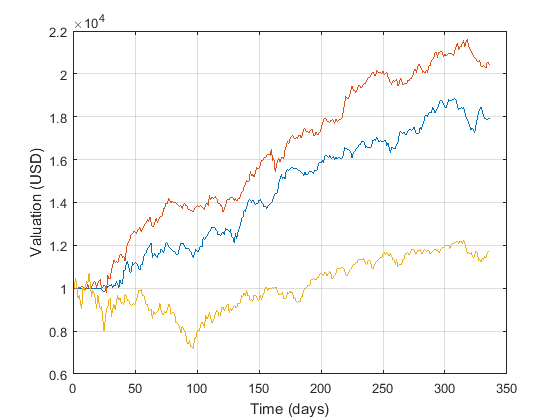
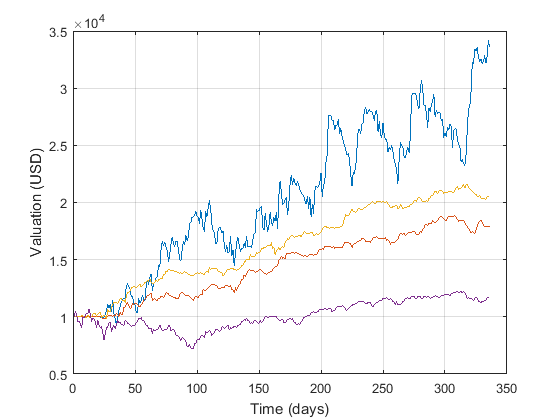
Update on complex and simple bb strats

diff --git a/strategy/strategy-running/Run_Bollinger_Complex_Strategy.m b/strategy/strategy-running/Run_Bollinger_Complex_Strategy.m
@@ -1,3 +1,4 @@
+clear;clc;
 addpath('../../helpers/');
 addpath('../../coint/deepsearch');
 addpath('../../coint/impl');
@@ -11,10 +12,6 @@ format longg;
 load('spreads_6575_7306.mat');
 load('spx_6575_7306.mat');
 
-%%%%%%%%%%%%%%
-% Run Simple before and load spreads_ids and spreads
-%%%%%%%%%%%%%%
-
 % N = length(spreads(1).px)+100;
 % for spr_id = spreads_ids
 %     spread      = spreads(spr_id);
@@ -23,17 +20,36 @@ load('spx_6575_7306.mat');
 %     save(fname, 'pmcmc');
 % end
 
+mat_a = zeros(length(spreads),5);
+for i = 1:length(spreads)
+    try
+        s = sprintf('pmcmc_%d.mat', i);
+        load(s);
+        mat_a(i,1) = mat(1);
+        mat_a(i,2) = mat(2);
+        mat_a(i,3) = mat(3);
+        mat_a(i,4) = mat(4);
+        mat_a(i,5) = mat(5);
+    catch
+        
+    end
+end
 
+sorted_mat_a = Rank_Results(mat_a, 3, 20);
+spreads_ids = sorted_mat_a(:,5)';
 
 mat_t 		 = zeros(length(spreads_ids) , 5 );
 fprintf('testing\n');
 c = 1;
 portfolio_cumsum = zeros(1);
+boll_conf    = struct('wsize', 20, 'wts', 1, 'nstd', 2);
+initial_bet  = 10000;
+
 for i = spreads_ids
     fprintf('i = %d\n', i);
 	Spread 		= spreads(i);
     T           = ceil((1/3)* length(Spread.px));
-    [ pmcmc ]   = Sto_Volatility_Estimator( Spread.px, 65, 6000 );
+    [ pmcmc ]   = Sto_Volatility_Estimator( Spread.px, 65, 3000 );
 	spread_vol = pmcmc.vol_two_factors_leverage;
     [pl, cum_pro, trds]= SimpleTradingStrategy( pp, Spread, T, length(Spread.px), boll_conf, spread_vol, 0, 1, @Strategy_Simulator, initial_bet );
 	vol 		= std(pl);
@@ -52,3 +68,5 @@ portfolio_cumsum = portfolio_cumsum / length(spreads_ids);
 
 %Sometimes you can just remove the end if it's too bad.
 PerformanceAssessment(portfolio_cumsum, spx(T:end), initial_bet)
+
+portfolio_cumsum_sv = portfolio_cumsum;

diff --git a/strategy/strategy-running/Plot_Strats.m b/strategy/strategy-running/Plot_Strats.m
@@ -8,7 +8,7 @@ T = 169;
 spx_cumsum = ((10000/spx(T))*spx(T:end));
 spx_cumsum = spx_cumsum(disp_seq);
 
-Y = [portfolio_cumsum_b(disp_seq)' portfolio_cumsum_z(disp_seq)' spx_cumsum];
+Y = [portfolio_cumsum_sv(disp_seq)' portfolio_cumsum_b(disp_seq)' portfolio_cumsum_z(disp_seq)' spx_cumsum];
 plot(Y);
 grid on;
 

diff --git a/strategy/strategy-running/Run_Bollinger_Simple_Strategy.m b/strategy/strategy-running/Run_Bollinger_Simple_Strategy.m
@@ -1,4 +1,4 @@
-clear;clc;
+%clear;clc;
 load('spreads_6575_7306.mat');
 load('spx_6575_7306.mat');
 
